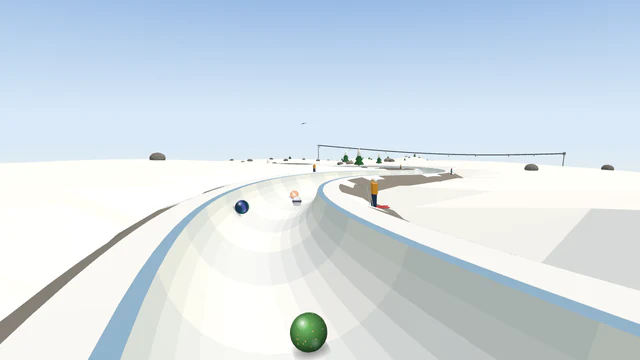
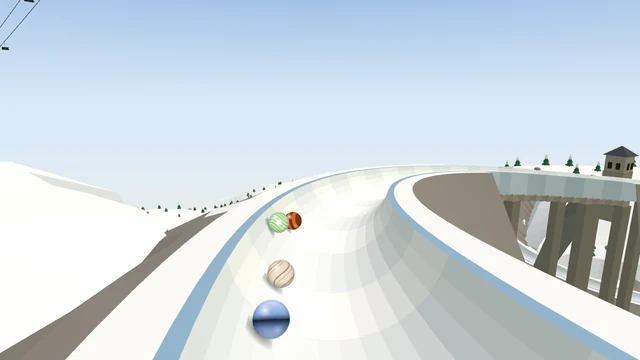
Baqueira-Beret Run: its own layout and opening; its records start again
Until now physically the same track as Paris Eiffel Tower Run and Bobsleigh
Run. A rolling start down the ridge and a wide turn across the open bowl under
the chairlift (the field let go in waves), over the moguls, the spiral round
the Romanesque bell tower, the hairpin, down the Escornacrabes couloir (the
big feature and new signature), a valley sweep, S-bends through the forest and
into the village. Full report 50/50; Wild 45. Data updates 2027-07-24. Off the
known failures; Paris and Portes du Soleil keep the World Tour's two classic
openings, so their opening lines come off the list too.

Claude-Session: https://claude.ai/code/session_011vSSkqNPL9kncfzrwF15wS

diff --git a/src/tracks/baqueira-beret-run.js b/src/tracks/baqueira-beret-run.js
@@ -3,8 +3,8 @@
 // Baqueira-Beret Run (Spain): a sunny Pyrenees run down to the stone villages of
 // the Val d'Aran. Moses's design ("New Track Designs", 8), built with the track kit.
 const {
-  track, plunge, straight, sBends, sweep, spiral, hairpin, splitter, runIn,
-  block, pileUp, parked, slalom, boost,
+  track, opening, plunge, straight, sBends, sweep, spiral, hairpin, runIn,
+  parked, slalom, peg, brake, moguls,
 } = require('../trackKit');
 
 module.exports = track({
@@ -15,10 +15,11 @@ module.exports = track({
   surface: 'snow',
   biome: 'alpine',
   lighting: 'day',
-  signature: 'Bell-tower spiral',
+  signature: 'Escornacrabes',
   tvCameras: [
-    { section: 'Bell-tower spiral', at: 0.8, side: 'left', distance: 6, height: 8 },
-    { section: 'Splitter', at: 0.8, side: 'right', distance: 6, height: 5 },
+    // (At the foot of the couloir, looking back up it at the field coming down.)
+    { section: 'Forest S-bends', at: 0.15, side: 'left', distance: 6, height: 10 },
+    { section: 'Bell-tower spiral', at: 0.5, side: 'right', distance: 6, height: 8 },
   ],
   billboardFrame: 'wood',
   // The gate on a high sunlit ridge, wide views over the valley; the finish in an Aranese
@@ -26,29 +27,44 @@ module.exports = track({
   start: { scenery: ['bare'], gate: 'paddle', shots: { countdown: 'front', launch: 'side' } },
   finish: { landmark: 'church', scenery: ['stone-houses'] },
   designChanges: [
-    'A 50 m straight, "Run to the hairpin", before the hairpin: the recipe needs a braking zone before the one sharp bend.',
-    'A few chamois on the ridge plunge (a pile-up before the slalom gates): without it the strongest marbles win too often, as on Åre Run.',
+    'Its own layout and opening (Moses, 15 Nov 2026: World Tour re-layouts): down the ridge and a wide turn across the open bowl under the chairlift (the rolling start, the field let go in waves), over the moguls, the spiral round the Romanesque bell tower, the hairpin, down the Escornacrabes couloir under a circling vulture (the big feature: the resort\'s steepest run, a long steep drop), a sweep down the valley, S-bends through the forest and the run into the village.',
+    'A straight, "Run to the hairpin", before the hairpin: the recipe needs a braking zone before the one sharp bend.',
   ],
+  // (The rolling start: down the ridge through the gates, then a wide turn across the open bowl under the
+  // chairlift; let go in jittered waves, a new order every race.)
+  opening: opening('rolling-start', {
+    side: 'left',
+    names: { run: 'Ridge run', turn: 'Open-bowl turn' },
+    dress: { turn: { overhead: ['chairlift'] } },
+    waves: { groups: 5, gap: 0.14, jitter: 0.1 },
+  }),
   sections: [
+    { name: 'Bowl moguls', shape: straight(70, { grade: 0.14 }), features: [moguls({ from: 0.55, to: 0.92, count: 4 })], obstacles: [slalom({ from: 0.12, to: 0.4, count: 3, loss: 0.3 })], scenery: ['bare'], billboards: 1, figures: ['skier', 'skier', 'snowboarder', 'skier'] },
     {
-      name: 'Ridge plunge', shape: plunge(80, { grade: 0.6 }),
-      obstacles: [pileUp({ costume: 'chamois', at: 0.42 }), slalom({ from: 0.55, to: 0.97, count: 6, loss: 0.3 })], scenery: ['bare'],
+      name: 'Bell-tower spiral', shape: spiral({ side: 'right', radius: 45, grade: 0.14 }), around: 'bell-tower', scenery: ['pines'],
+      obstacles: [peg({ costume: 'snowman', at: 0.35, line: 'right' }), peg({ costume: 'snowman', at: 0.7, line: 'left' })],
     },
-    { name: 'Open-bowl S-bends', shape: sBends({ first: 'left', radius: 85, degrees: 72, grade: 0.13 }), figures: ['skier', 'skier', 'snowboarder', 'skier'], scenery: ['bare'], billboards: 1 },
-    {
-      name: 'Splitter', shape: splitter({ side: 'left', balance: { tipOffset: -0.8, left: { drag: 1.42, scrub: 1.42 }, right: { drag: 0.42, scrub: 0.72 } } }),
-      around: 'big-rock', overhead: ['vulture'], scenery: ['rocks'],
-    },
-    { name: 'Valley sweep', shape: sweep({ side: 'right', radius: 80, degrees: 160, grade: 0.07 }), features: [boost({ at: 0.08 })], billboards: 2, overhead: ['chairlift'], scenery: ['pines'] },
     // (Not in the design: the recipe's braking zone needs a straight before the one sharp bend.)
-    { name: 'Run to the hairpin', shape: straight(50, { grade: 0.13 }), billboards: 1, scenery: ['rocks'] },
-    { name: 'Hairpin', shape: hairpin({ side: 'left' }), obstacles: [block({ costume: 'chamois', line: 'high', size: 'large' })], scenery: ['rocks'] },
-    { name: 'Bell-tower spiral', shape: spiral({ side: 'right', radius: 45, grade: 0.17 }), around: 'bell-tower', scenery: ['pines'] },
     {
-      name: 'Forest run', shape: straight(80, { grade: 0.18 }),
-      obstacles: [parked({ costume: 'snowmobile', at: 0.4, side: 'right', length: 8 })], scenery: ['pines'],
+      name: 'Run to the hairpin', shape: straight(60, { grade: 0.13 }), scenery: ['rocks'],
+      obstacles: [slalom({ from: 0.15, to: 0.6, count: 3, loss: 0.3 })],
     },
-    { name: 'Final plunge', shape: plunge(110, { grade: 0.3, from: 0.18 }), scenery: ['stone-houses'] },
+    { name: 'Hairpin', shape: hairpin({ side: 'left' }), scenery: ['rocks'] },
+    // The track's big feature: down the Escornacrabes, the resort's steepest couloir, a long steep drop.
+    { name: 'Escornacrabes', shape: plunge(80, { grade: 0.4, from: 0.16 }), overhead: ['vulture'], scenery: ['rocks'] },
+    {
+      name: 'Valley sweep', shape: sweep({ side: 'left', radius: 80, degrees: 130, grade: 0.12 }), scenery: ['pines'], billboards: 2,
+      obstacles: [peg({ costume: 'snowman', at: 0.3, line: 'right' }), peg({ costume: 'snowman', at: 0.65, line: 'left' })],
+    },
+    {
+      name: 'Forest S-bends', shape: sBends({ first: 'right', radius: 60, degrees: 100, grade: 0.14 }), scenery: ['pines'], billboards: 1,
+      obstacles: [peg({ costume: 'snowman', at: 0.3, line: 'left' }), peg({ costume: 'snowman', at: 0.7, line: 'right' })],
+    },
+    {
+      name: 'Into the village', shape: straight(80, { grade: 0.14 }), scenery: ['stone-houses'], billboards: 1,
+      features: [brake({ at: 0.05, length: 12, drag: 0.02 })],
+      obstacles: [parked({ costume: 'snowmobile', at: 0.3, side: 'right', length: 8 }), slalom({ from: 0.5, to: 0.9, count: 4, loss: 0.3 })],
+    },
     { name: 'Finish', shape: runIn(), scenery: ['stone-houses'] },
   ],
 });

diff --git a/test/trackKit.test.js b/test/trackKit.test.js
@@ -56,7 +56,7 @@ test('every kit track opens with Bobsleigh Run\'s starting ramp, gate, channel a
     // (The staggered drop and the varied starts let the field go in waves: their funnel has that one setting more.
     // Any other opening only where its track asks for them, listed here: Nevada Drag Strip's crest start.)
     const { waves, ...rest } = funnel;
-    if (waves) assert.ok(['staggered-drop', 'clean-drop', 'peg-drop', 'pipe-drop', 'rolling-start', 'chicane-start', 'rumble-start'].includes(t.physics.kit.opening) || ['nevada-drag-strip', 'hudson-highlands-run', 'iguazu-devils-throat', 'chao-phraya-dawn-spiral', 'blyde-potholes-spiral', 'kings-canyon-lost-city', 'huashan-plank-walk', 'etna-valle-del-bove', 'tianmen-heavens-gate', 'sunken-ruins', 'are-run', 'greenland-expedition', 'dubai-twister', 'rio-jungle-rumble', 'china-wall-twister', 'crystal-grotto', 'moon-base'].includes(t.slug), `${t.slug}: waves at the gate`);
+    if (waves) assert.ok(['staggered-drop', 'clean-drop', 'peg-drop', 'pipe-drop', 'rolling-start', 'chicane-start', 'rumble-start'].includes(t.physics.kit.opening) || ['nevada-drag-strip', 'hudson-highlands-run', 'iguazu-devils-throat', 'chao-phraya-dawn-spiral', 'blyde-potholes-spiral', 'kings-canyon-lost-city', 'huashan-plank-walk', 'etna-valle-del-bove', 'tianmen-heavens-gate', 'sunken-ruins', 'are-run', 'greenland-expedition', 'dubai-twister', 'rio-jungle-rumble', 'china-wall-twister', 'baqueira-beret-run',  'crystal-grotto', 'moon-base'].includes(t.slug), `${t.slug}: waves at the gate`);
     if (!['funnel-drop', 'staggered-drop'].includes(t.physics.kit.opening)) assert.deepEqual(rest, tmFunnel);
     assert.deepEqual(t.physics.gate, bob.physics.gate);
     assert.equal(t.physics.collisions, true);

diff --git a/test/samenessAllTracks.test.js b/test/samenessAllTracks.test.js
@@ -34,10 +34,9 @@ const KNOWN = {
   'table-mountain-run': ['opening', 'opening-kind', 'layout'],
   // World Tour.
 
-  'portes-du-soleil-run': ['opening-kind', 'layout'],
-  'baqueira-beret-run': ['opening', 'opening-kind', 'layout'],
+  'portes-du-soleil-run': ['layout'],
 
-  'paris-eiffel-tower-run': ['opening', 'opening-kind', 'layout'],
+  'paris-eiffel-tower-run': ['layout'],
   'amazon-water-run': ['layout'],
   // Grand Prix (one design: Dubai's; Stockholm, Lagos, Istanbul, Sydney, Nairobi, Delhi, Sahara and Wyrmwood Hollow have their own since 6–7 Nov 2026).
   'dubai-marble-grand-prix': ['opening', 'opening-kind', 'layout'],

diff --git a/docs/06-decisions.md b/docs/06-decisions.md
@@ -4,7 +4,7 @@
 
 | Date | Decision | Why |
 |---|---|---|
-| 2026-11-15 | **World Tour re-layouts** (Moses, 21:20: every World Tour pack track still on the sameness test's known failures gets its own layout and opening, with a signature feature from the real place, as the Grand Prix re-layouts; then seven new World Tour tracks to fill the pack to 20). Each keeps its name, slug and look; a `--relayout` data update starts its records again (`tracks.records_since`), and a `<slug>-to-world-tour` update sets its new wildness (the pack script now takes a kit track with no series marker as World Tour, as the server does). Done: **Åre Run** (Wild 43, was Easy 29: a rumble start down the summit moguls, the hairpin, a sweep under the gondola, down the World Championship slope as the big feature, the funicular spiral; `2027-07-18-…`), **Greenland Expedition** (Wild 44: a snowdrift start, the sand-trap opening, past the sled dogs, the ice cave as the big feature, a long steep drop inside the glacier; `2027-07-19-…`), **Park City Run** (Wild 37: a rolling start from the lift station, down the old silver mine's shaft as the big feature; `2027-07-20-…`), **Dubai Twister** (Wild 39: a sand-trap start through the dunes, up a red dune and down its face, the Twister spiral round the twisting tower as the big feature; the falcon no longer swoops at the hairpin, as knocked marbles fell too far behind; `2027-07-21-…`), **Rio Jungle Rumble** (Extreme 47: a rumble start down the jungle path, the Selarón Steps, the turn right round Guanabara Bay under the cable car as the big feature; `2027-07-22-…`), **China Wall Twister** (Wild 40: a tunnel-launch start through a gate in the Wall, along the Wall and down its steps, the dragon drop as the big feature; `2027-07-23-…`). | The old World Tour tracks were built from one design and raced alike (several pairs identical, nine with the same opening). |
+| 2026-11-15 | **World Tour re-layouts** (Moses, 21:20: every World Tour pack track still on the sameness test's known failures gets its own layout and opening, with a signature feature from the real place, as the Grand Prix re-layouts; then seven new World Tour tracks to fill the pack to 20). Each keeps its name, slug and look; a `--relayout` data update starts its records again (`tracks.records_since`), and a `<slug>-to-world-tour` update sets its new wildness (the pack script now takes a kit track with no series marker as World Tour, as the server does). Done: **Åre Run** (Wild 43, was Easy 29: a rumble start down the summit moguls, the hairpin, a sweep under the gondola, down the World Championship slope as the big feature, the funicular spiral; `2027-07-18-…`), **Greenland Expedition** (Wild 44: a snowdrift start, the sand-trap opening, past the sled dogs, the ice cave as the big feature, a long steep drop inside the glacier; `2027-07-19-…`), **Park City Run** (Wild 37: a rolling start from the lift station, down the old silver mine's shaft as the big feature; `2027-07-20-…`), **Dubai Twister** (Wild 39: a sand-trap start through the dunes, up a red dune and down its face, the Twister spiral round the twisting tower as the big feature; the falcon no longer swoops at the hairpin, as knocked marbles fell too far behind; `2027-07-21-…`), **Rio Jungle Rumble** (Extreme 47: a rumble start down the jungle path, the Selarón Steps, the turn right round Guanabara Bay under the cable car as the big feature; `2027-07-22-…`), **China Wall Twister** (Wild 40: a tunnel-launch start through a gate in the Wall, along the Wall and down its steps, the dragon drop as the big feature; `2027-07-23-…`), **Baqueira-Beret Run** (Wild 45: a rolling start and a wide turn across the open bowl, the bell-tower spiral, the Escornacrabes couloir as the big feature; `2027-07-24-…`). Paris Eiffel Tower Run and Portes du Soleil Run keep the two classic openings the World Tour allows. (A pile-up at the gate spreads the field by about 5 s before the first bend; the re-laid tracks without one pass the report's first-to-last gap more easily.) | The old World Tour tracks were built from one design and raced alike (several pairs identical, nine with the same opening). |
 | 2026-11-15 | **Seven more Blocks 1 tracks: the Blocks 1 pack filled to 20** (Moses, 13:38: the game-world look, our own voxel worlds with retro-game touches, never another game's names, creatures, textures or falling pieces; same rules as the Canyons and Peaks; 2 Easy, 3 Wild, 2 Extreme). Built, each pushed switched off in the Blocks 1 pack, not free: **Mushroom Grove** (Easy 24: a drop off a giant mushroom's cap), **Sunken Ruins** (Easy 17: a banked turn round a sunken dome), **Clockwork Works** (Wild 39: a splitter round a giant gear), **Crystal Grotto** (Wild 44: a spiral round a crystal spire), **Jungle Ruins** (Wild 45: a waterfall drop through falling water), **Moon Base** (Extreme 60: a 66 m drop over a crater's rim), **Neon Grid** (Extreme 57: a loop over the glowing grid, 69 overtakes); data updates `2027-07-11-…` to `2027-07-17-…`; seven new worlds, `kitLandmarksBlockWorlds.js` and three Blocks 1 start types (`portal-gate`, `block-pyramid`, `gear-tower`). On phones a Block Series cube pillar is now at most 8 cubes (each taller), as Crystal Grotto's tall pillars went over the triangle budget; looks only. Status: project doc `claude/blocks-1-seven-more-status.md`. Waiting for Moses's deploy (with the Canyons and Peaks), then his look at each preview before switching on. | With them the Blocks 1 pack has 20 besides the free Spawn Point and can go on sale. |
 | 2026-11-15 | **Six more Peaks tracks: the Peaks pack filled to 20** (Moses, 09:45: same rules as the six Canyons, and 65+ overtakes on a loop track; 2 Easy, 2 Wild, 2 Extreme; six famous mountains not yet in the series, each with two signature features, unlike the World Tour's alpine resorts). Built, each pushed switched off in the Peaks pack, not free: **Half Dome Granite Slabs** (Easy 31: a drop down the granite slabs below the face), **Huayna Picchu Terraces** (Extreme 48: a splitter round a terraced hill), **Huashan Plank Walk** (Easy 20: a dramatic banked turn round the plank walk's cliff), **Eiger North Face** (Wild 43: a banked spiral round a window pillar), **Etna Valle del Bove** (Extreme 50: a drop into the Valle del Bove), **Tianmen Heaven's Gate** (Wild 41: a loop under the great arch, 69 overtakes); data updates `2027-07-05-…` to `2027-07-10-…`; six palettes and `kitLandmarksPeak2.js`; the pack script knows Peaks. Huayna came out Extreme and Huashan Easy, Etna Extreme and Tianmen Wild (planned otherwise); the mix stays 2/2/2. Status: project doc `claude/peaks-six-more-status.md`. Waiting for Moses's deploy (with the Canyons), then his look at each preview before switching on. | With them the Peaks pack has 20 besides the free Everest Icefall Run and can go on sale. |
 | 2026-11-15 | **A coaster track can have a loop** (Kings Canyon Lost City, the first): over the loop's span the coaster's rails, spine, ties and towers stop (3 m either side), as the loop draws its own track and steel along its own path; before, they ran along the ground under it, 64 m with no rim under the rails, and blocked the follow camera. The rails check (`railGaps`) now finds each rail line's first point along the whole track (by height too), so lines that start after a loop are checked where they are. Looks only: race results unchanged. | A loop in a canyon is the Canyons series' loop; the coaster kit had never met one. |

diff --git a/docs/README.md b/docs/README.md
@@ -8,7 +8,7 @@
 
 **Where it stands:**
 - **Website:** live at marblespins.com (Vercel builds every push to `Main`; production is at `548aeb8`, 15 Nov). Soft start (social media, a daily set of videos, 10–20 invited test pilots) since the week of 26 Oct. **Official launch 1 Dec 2026**, with the Holiday Season, the season pass and the apps. GA4 on since 31 Oct (after cookie consent); the Meta Pixel off.
-- **Tracks: 152 live in ten series** (World Tour, Grand Prix, Coasters, Canyons, Blocks, Track and Field, Rivers, Peaks, Pinball, Arcade), since the 9 motorsport Grand Prix tracks were switched on on 13 Nov; 191 in the database. **Switched off, waiting for Moses:** five more Rivers tracks (on the server since 13 Nov: Yukon Five Finger Run, Arno Old Bridge Run, Chao Phraya Dawn Spiral, Hudson Highlands Run, Iguazú Devil's Throat) and six more Canyons tracks (on Main, **waiting for the server deploy**: Bryce Hoodoo Run, Blyde Potholes Spiral, Taroko Marble Gorge, Samaria Iron Gates, Kings Canyon Lost City, the first coaster track with a loop, and Sumidero Christmas Falls; data updates `2027-06-29-…` to `2027-07-04-…`) and six more Peaks tracks (on Main, **waiting for the same deploy**: Half Dome Granite Slabs, Huayna Picchu Terraces, Huashan Plank Walk, Eiger North Face, Etna Valle del Bove, Tianmen Heaven's Gate; data updates `2027-07-05-…` to `2027-07-10-…`) and seven more Blocks 1 tracks (on Main, **waiting for the same deploy**: Mushroom Grove, Sunken Ruins, Clockwork Works, Crystal Grotto, Jungle Ruins, Moon Base, Neon Grid; data updates `2027-07-11-…` to `2027-07-17-…`); World Tour re-layouts (on Main, **waiting for the same deploy**; their records start again): Åre Run, Greenland Expedition, Park City Run, Dubai Twister, Rio Jungle Rumble, China Wall Twister (`2027-07-18-…` to `2027-07-23-…`). Moses deploys Canyons, Peaks, Blocks 1 and the World Tour work together. The 31 holiday tracks are switched on but hidden and closed until 1 Dec 00:00 Swedish time (183 live then).
+- **Tracks: 152 live in ten series** (World Tour, Grand Prix, Coasters, Canyons, Blocks, Track and Field, Rivers, Peaks, Pinball, Arcade), since the 9 motorsport Grand Prix tracks were switched on on 13 Nov; 191 in the database. **Switched off, waiting for Moses:** five more Rivers tracks (on the server since 13 Nov: Yukon Five Finger Run, Arno Old Bridge Run, Chao Phraya Dawn Spiral, Hudson Highlands Run, Iguazú Devil's Throat) and six more Canyons tracks (on Main, **waiting for the server deploy**: Bryce Hoodoo Run, Blyde Potholes Spiral, Taroko Marble Gorge, Samaria Iron Gates, Kings Canyon Lost City, the first coaster track with a loop, and Sumidero Christmas Falls; data updates `2027-06-29-…` to `2027-07-04-…`) and six more Peaks tracks (on Main, **waiting for the same deploy**: Half Dome Granite Slabs, Huayna Picchu Terraces, Huashan Plank Walk, Eiger North Face, Etna Valle del Bove, Tianmen Heaven's Gate; data updates `2027-07-05-…` to `2027-07-10-…`) and seven more Blocks 1 tracks (on Main, **waiting for the same deploy**: Mushroom Grove, Sunken Ruins, Clockwork Works, Crystal Grotto, Jungle Ruins, Moon Base, Neon Grid; data updates `2027-07-11-…` to `2027-07-17-…`); World Tour re-layouts (on Main, **waiting for the same deploy**; their records start again): Åre Run, Greenland Expedition, Park City Run, Dubai Twister, Rio Jungle Rumble, China Wall Twister, Baqueira-Beret Run (`2027-07-18-…` to `2027-07-24-…`). Moses deploys Canyons, Peaks, Blocks 1 and the World Tour work together. The 31 holiday tracks are switched on but hidden and closed until 1 Dec 00:00 Swedish time (183 live then).
 - **Server:** last deployed **13 Nov 2026, ~23:00** (code fingerprint `7abad7e4c43d`, Main `7a3342d`; 57 tables, 527 columns): the Stripe webhook's refusals logged and its readiness on `/health`. The week's other deploys (12 Nov `b5cc113debdb` and `bc1bd7ff096f`; 13 Nov ~14:20 `8d7a15a7631e`, ~18:30 `6be622039502`, ~21:45 `c25a2aa05c5b`) brought wildness and track packs, pack sales, the free set of 15, the motorsport Grand Prix tracks, where players come from and the five Rivers. Main is at fingerprint `5636207a9263`: the next deploy brings only the six Canyons tracks.
 - **Wildness and track packs:** every live track is Easy / Wild / Extreme (from 1,000 report races; 68 / 61 / 23 of the 152), shown as a badge and a picker filter. 11 packs (one per series; Pinball and Arcade separate; Blocks 1 and 2), **$7.99, or 1,990 coins + $5.99**, on the website (Stripe, test mode), Google Play and the App Store. **Free set: 15 tracks**, one or two per series. **Complete packs** (20 live besides the free ones): Blocks 2 and Grand Prix; Rivers and Canyons have 20 once their new tracks are on. **Locking and selling are off** (`TRACK_PACKS`); only complete packs lock when it is on. The website keeps saying every track is free until `PACKS_LIVE` (`client/src/shared/packWording.js`). First end-to-end test purchase (Grand Prix pack, Stripe test mode) worked on 13 Nov. Still to do: the store products, the pack terms of sale (draft at `/preview/legal-packs`), Moses's go.
 - **Apps:** iPhone and Android (Capacitor). **Android 1.0.0 (5) in Play internal testing, tested by Moses on 13 Nov:** hit and bump sounds work, the ceremony song stops (the slow-phone and sound fixes of 11–12 Nov confirmed). `client/app-version.json` and the iPhone project at 1.0.0 (5); the next build is 6 (`npm run app:version -- build`). **Store submission planned for 16–20 Nov.**
